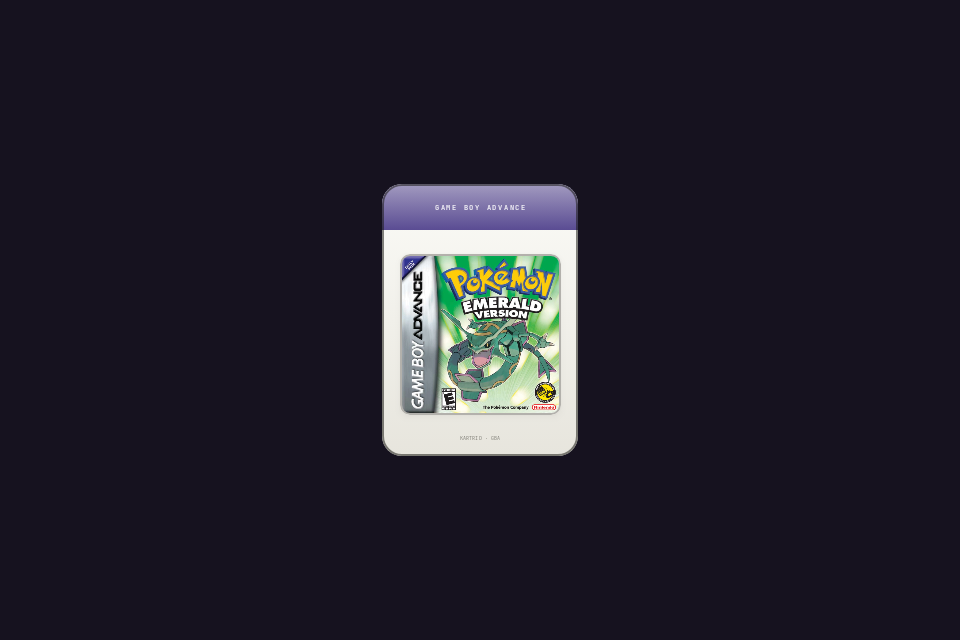
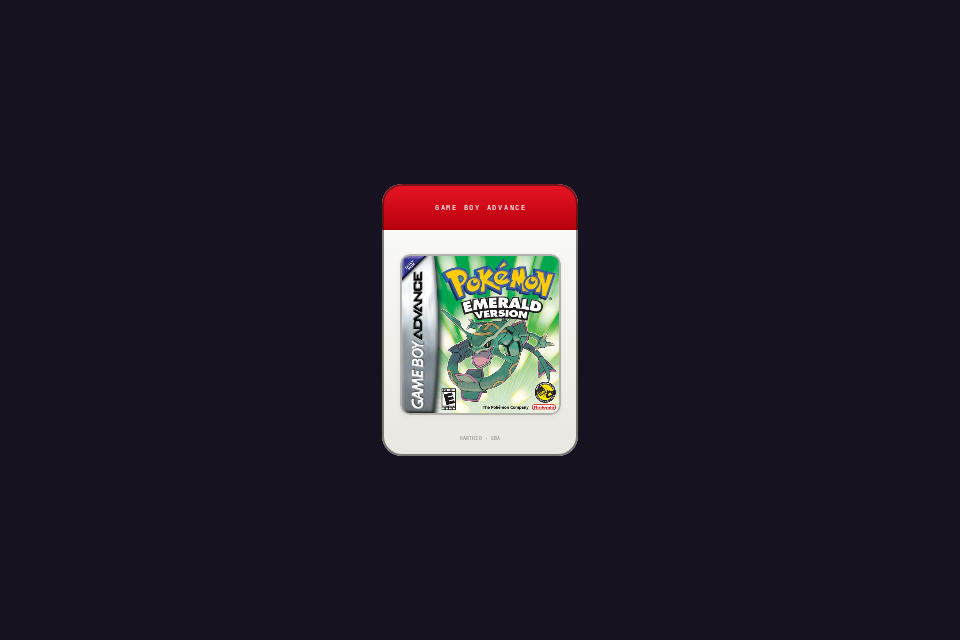
kartrid Switch: cap merah Nintendo E60012 (bukan warna sistem), body cool white

Changed region(s): [[0.375, 0.2812, 0.625, 0.375]]

diff --git a/android/app/src/main/java/id/iqbaldev/kartrid/ui/Cartridge.kt b/android/app/src/main/java/id/iqbaldev/kartrid/ui/Cartridge.kt
@@ -407,20 +407,20 @@ private fun CartridgeSwitch(
             .clip(shape)
             .border(1.5.dp, Color(0x88171711), shape),
     ) {
-        // body plastik putih ala kartrid Switch
+        // body plastik putih ala kartrid Switch (cool white)
         Box(
             Modifier
                 .fillMaxSize()
-                .background(Brush.verticalGradient(listOf(Color(0xFFFBFBF7), Color(0xFFE7E5DD)))),
+                .background(Brush.verticalGradient(listOf(Color(0xFFFDFDFB), Color(0xFFE9E7E0)))),
         )
-        // top cap = warna sistem (strip ala kartrid Switch)
+        // top cap MERAH ala kartrid Switch asli (bukan warna per-sistem)
         Box(
             Modifier
                 .fillMaxWidth()
                 .height(capH.dp)
                 .background(
                     Brush.verticalGradient(
-                        listOf(Color(sys.shell).copy(alpha = 0.55f), Color(sys.shell)),
+                        listOf(Color(0xFFE60012).copy(alpha = 0.92f), Color(0xFFB8000D)),
                     ),
                 ),
             contentAlignment = Alignment.Center,
